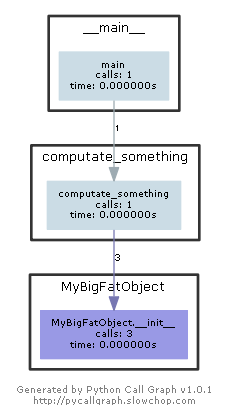
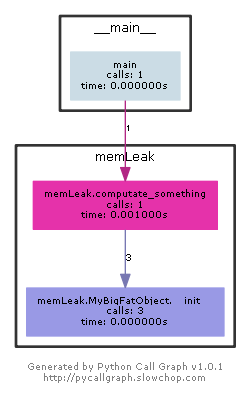
完善L1

diff --git a/demos/L1/code2pycallGraph.py b/demos/L1/code2pycallGraph.py
@@ -1,0 +1,7 @@
+from pycallgraph import PyCallGraph
+from pycallgraph.output import GraphvizOutput
+import sys
+from memLeak import *
+
+with PyCallGraph(output=GraphvizOutput()):
+	computate_something()
